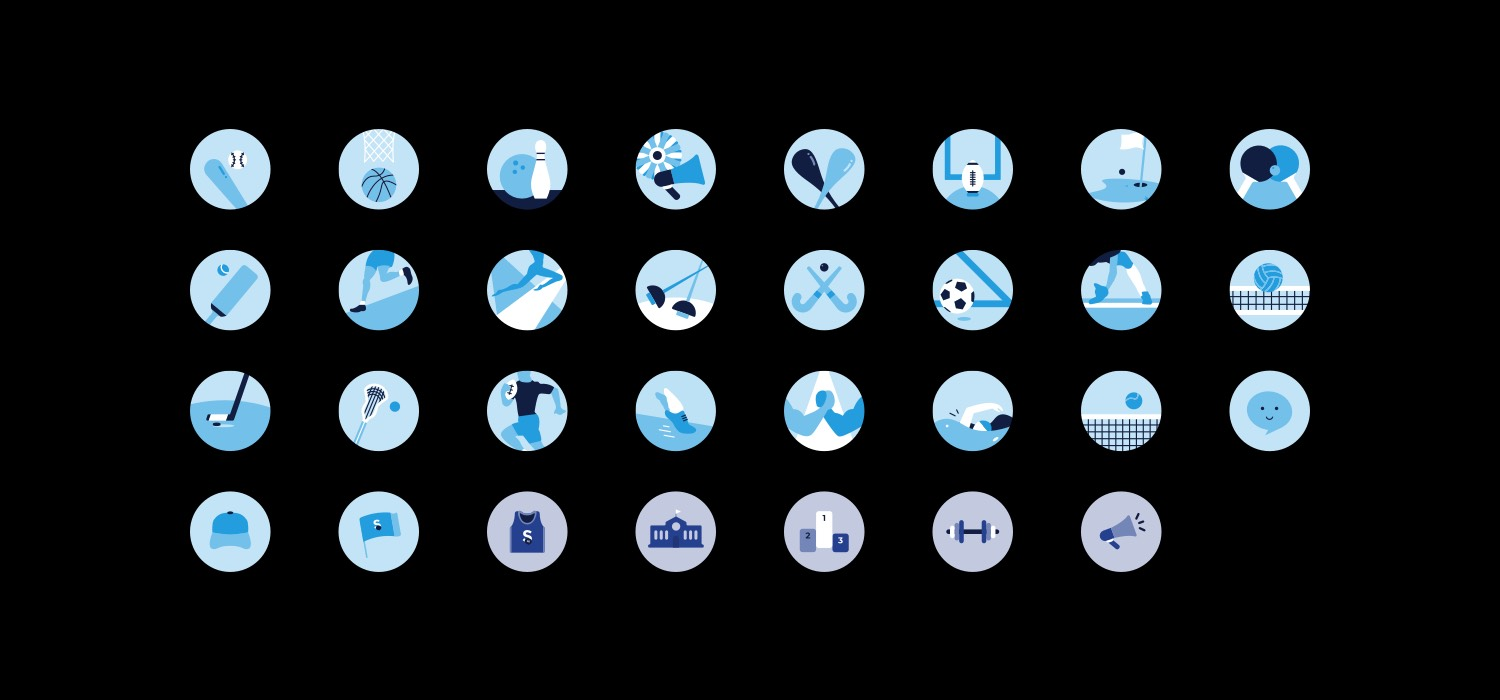
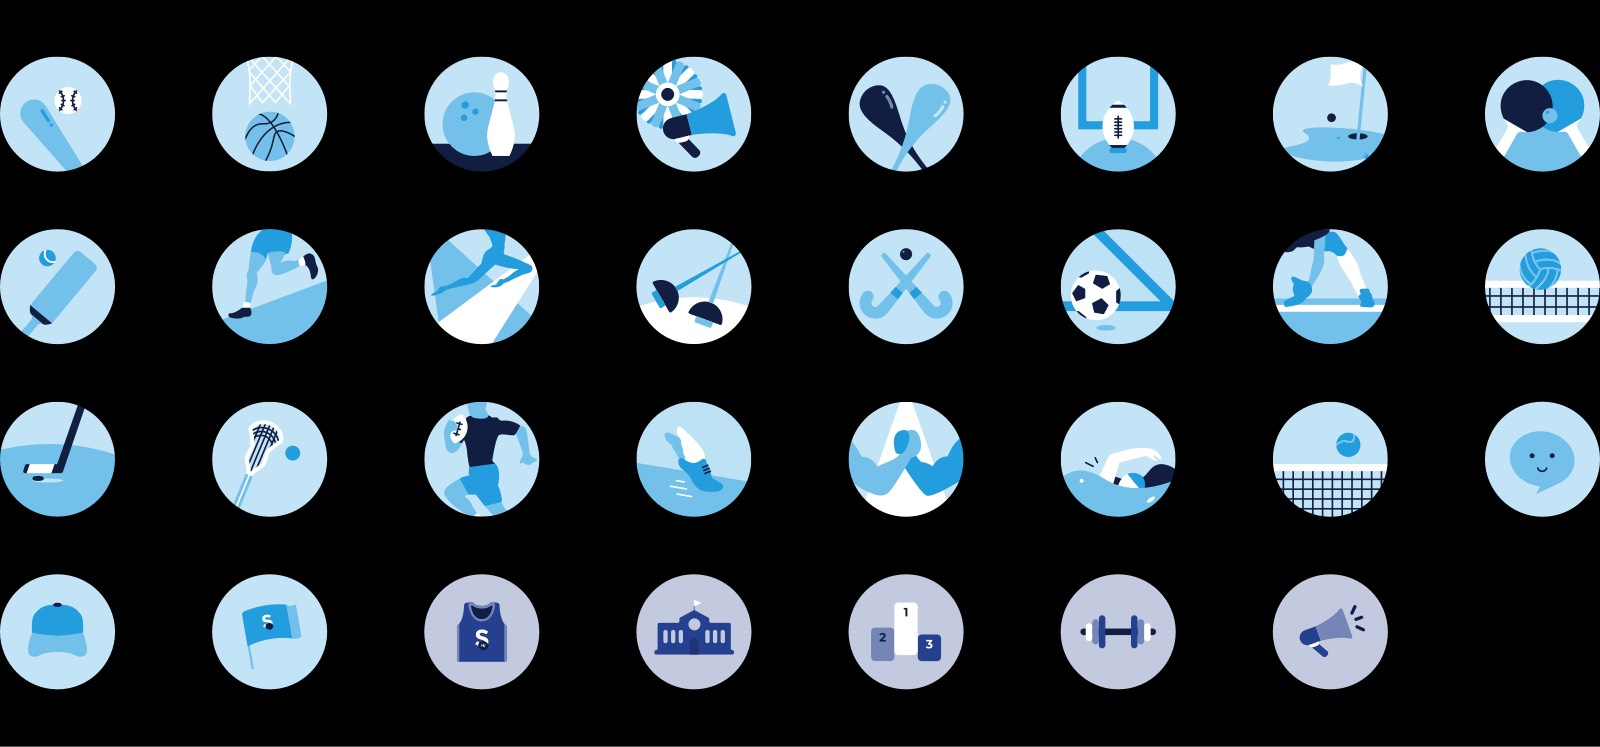
updates

diff --git a/sportshi-system.html b/sportshi-system.html
@@ -93,7 +93,7 @@
   <img width="100%" src="img/design-system/iconsystem-black.jpg" /><br><br>
   <p><h3>Illustrative icons</h3></p>
   <p>In addition to system icons, the app also uses icons to illustrate sports, users, groups, and events.</p>
-  <img width="100%" src="img/design-system/illustrations-black.jpg" />
+  <img width="100%" src="img/design-system/illustrations-black.png" />
 
   <div class="spacer"></div>
   <h2>Standard UI Properties</h2>
